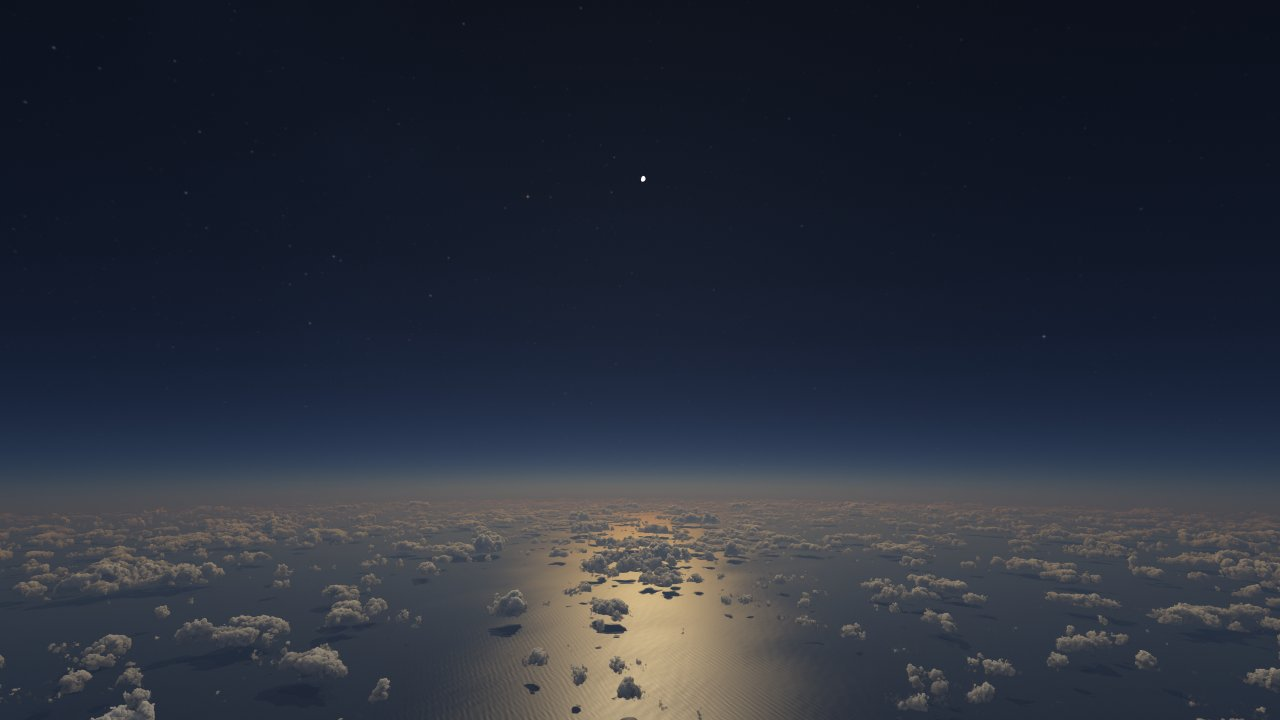
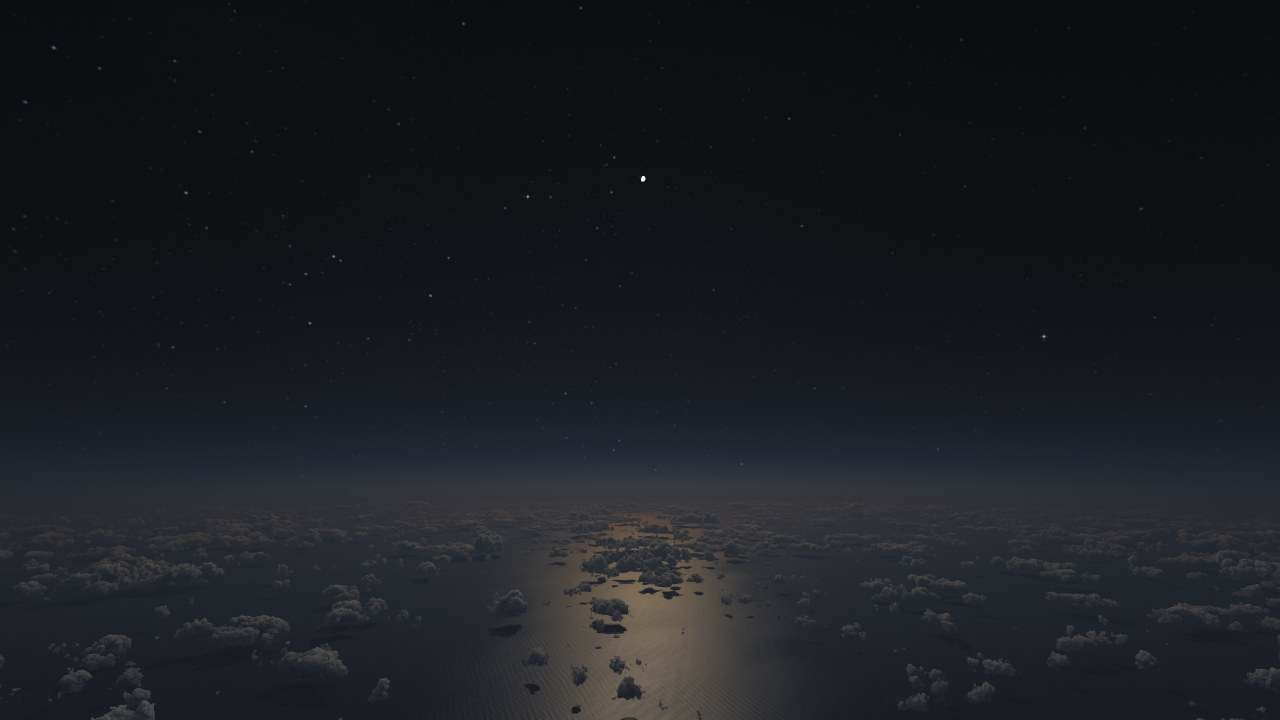
Night as the eye sees it: capped exposure, rods' grey, stars against a bright sky
A half-moon night was exposed like a long exposure: the floor of the
exposure held the median at the same shown level from dusk down to a
moonless night, so moonlit clouds came out nearly as light as by day,
the low moon's reddened light gave tan clouds, a golden glitter and an
orange-brown rim at the horizon, the sky was a saturated blue, and only
a handful of stars showed.

- Exposure: at night the eye opens up no further than it can
  (NIGHT_OPEN, NIGHT_SKY, NIGHT_RATE on the sky's level). A half moon
  stays dark, a full moon is brighter, a moonless night darker still.
- Colour: below a few cd/m2 the rods take over (after Krawczyk et al.
  2005): colours fade into the rods' slightly blue grey (uWS, a fit of
  the scotopic curve's shape; ROD_HALF 0.01 cd/m2), as the night eye
  comes in with the sun from -3 to -6 degrees (uNightEye).
- Stars: raised by the square root of how much brighter the sky behind
  them is than the moonless sky (de Vries-Rose), and STAR_GAIN 3 -> 5.

Day and sunset pictures are unchanged; dusk at -4 degrees moves by at
most 2 levels.

Claude-Session: https://claude.ai/code/session_0164gFYhFQTZWxi11WF846xx

diff --git a/index.html b/index.html
@@ -643,12 +643,14 @@ uniform float uLook;    // power of the "look" curve
 uniform vec2 uLogRange;
 uniform vec3 uBalance;   // white balance (balanceFor)
 uniform float uSaturation;  // a camera's saturation (saturationFor)
+uniform float uNightEye;    // how far the eye's night vision has come in, 0 by day to 1 (nightEyeFor)
 // Twelve wavelengths (405-680 nm), four per vec4.
 uniform vec4 uBR[3];    // Rayleigh scattering per km
 uniform vec4 uBO[3];    // ozone absorption per km
 uniform vec4 uWR[3];    // spectrum -> linear sRGB (solar spectrum folded in)
 uniform vec4 uWG[3];
 uniform vec4 uWB[3];
+uniform vec4 uWS[3];    // spectrum -> what the rods see (WS in the JS)
 // Multiple scattering per unit of scattering coefficient: NMU x (12 * NH)
 // texels, the three wavelength groups stacked in y; then the same for the
 // light of the sky on the low clouds (cloudSky); then the light's mean
@@ -717,7 +719,11 @@ const int NFAR = 16;            // ...and in the lit air beyond it (see shadowSp
 const int NMU = 40;             // multiple-scattering table: sun angle
 const int NH = 12;              // multiple-scattering table: altitude
 const float MS_MU_MIN = -0.35;
-const float STAR_GAIN = 3.0;
+const float STAR_GAIN = 5.0;
+const float STAR_LIFT = 100.0;  // the most a star is raised against a bright sky (see main)
+const float CD = 6650.0;        // cd/m2 of a luminance of 1 here (white paper in the sun outside the air, 133000 lux, is 1 / pi)
+const float ROD_HALF = 0.01;    // cd/m2 where the rods count as much as the cones (see main)
+const vec3 ROD_TINT = vec3(0.911, 1.003, 1.235);   // the rods' grey, a little blue (luminance 1)
 const float METER_GLINT = 0.15;  // the share of the sun and its glitter in the meter (see main)
 const int GRID = 128;
 const int SLOTS = 8;
@@ -2023,6 +2029,17 @@ void main() {
     float vanRhijn = 1.0 / sqrt(1.0 - 0.90 * (1.0 - d.y * d.y));   // a thin layer seen aslant
     float glow = uNight * (vanRhijn + milkyWay(c)) * (1.0 - moonMask);
     float stars = uNight * STAR_GAIN * (1.0 - moonMask);
+    // At night a star is seen against a brighter sky better than a screen
+    // shows it: the eye's threshold for a point grows with the square root
+    // of the sky's luminance (the de Vries-Rose law), a screen's in
+    // proportion. So as the night eye comes in, a star is raised by the
+    // square root of how much brighter the sky behind it is than the
+    // moonless sky (up to STAR_LIFT): under a quarter moon about as many
+    // stars show as the eye sees, not only the brightest few.
+    if (uNightEye > 0.0) {
+      float back = glow + dot(uWS[0], L[0]) + dot(uWS[1], L[1]) + dot(uWS[2], L[2]);
+      stars *= 1.0 + uNightEye * (sqrt(clamp(back / uNight, 1.0, STAR_LIFT * STAR_LIFT)) - 1.0);
+    }
     for (int k = 0; k < 3; k++) {
       vec4 t = vis * exp(-(uBR[k] * od.x + extM * uMA[k] * od.y + uBO[k] * od.z));
       G[k] = t * sun;
@@ -2056,6 +2073,22 @@ void main() {
     dot(uWG[0], L[0]) + dot(uWG[1], L[1]) + dot(uWG[2], L[2]),
     dot(uWB[0], L[0]) + dot(uWB[1], L[1]) + dot(uWB[2], L[2]));
   col = max(col, 0.0);                               // colours outside sRGB
+  // The eye at night (after Krawczyk, Myszkowski and Seidel, 2005). Below
+  // a few cd/m2 the rods take over from the cones, and colours fade into
+  // the grey of what the rods see, which favours blue-green over red (the
+  // Purkinje shift): moonlit clouds and the moon's glitter are grey to the
+  // eye, and the moonlit sky a dark grey-blue, where a long exposure shows
+  // them in the colours of sunlight. The rods' share is ROD_HALF / (ROD_HALF
+  // + the pixel's luminance in cd/m2), as the night eye comes in (the
+  // paper's 0.04 greyed the sky of nautical twilight, which the eye still
+  // sees blue). Their grey is a little blue, as the night looks (the "blue
+  // shift" of Jensen et al., 2001), but less: neutral grey read as a black
+  // and white photograph.
+  if (uNightEye > 0.0) {
+    float rods = ISUN * (dot(uWS[0], L[0]) + dot(uWS[1], L[1]) + dot(uWS[2], L[2]));
+    float cd = CD * dot(col, vec3(0.2126, 0.7152, 0.0722));
+    col = mix(col, max(rods, 0.0) * ROD_TINT, uNightEye * ROD_HALF / (ROD_HALF + cd));
+  }
   // The meter counts the sun's disc and glare and its glitter on the sea
   // (G) at METER_GLINT of their light: a camera lets the sun and its mirror
   // image run into white and exposes for the rest. Photographs from the air
@@ -2837,6 +2870,8 @@ const SkySound = (() => {
                                               // daylight's highlights, at most DROP lower...
   const GLOW_FREE = 3.5, GLOW_HOLD = 1;       // ...holding the sky down at most GLOW_HOLD stops for each stop the
                                               // band stands more than GLOW_FREE stops above the sky
+  const NIGHT_OPEN = 16.75, NIGHT_SKY = -22.5, NIGHT_RATE = 0.5;   // at night the eye opens up at most to NIGHT_OPEN
+                                       // when the sky's level is NIGHT_SKY, NIGHT_RATE stops more per stop darker
   const MONO_RATE = [1, 0.8], MONO_STEP = 0.25;  // as the sun goes down, the exposure opens up at most MONO_RATE
                                               // stops for each stop the sky darkens (in steps of MONO_STEP degrees):
   const MONO_DEEP = [-3, -6];                 // the first in civil twilight, the second from the sun MONO_DEEP[1] down
@@ -2894,6 +2929,12 @@ const SkySound = (() => {
   const yNorm = CMF.reduce((a, c, i) => a + c[1] * SOLAR[i], 0);
   const W = XYZ_TO_SRGB.map(m => CMF.map((c, i) => SOLAR[i] * (m[0] * c[0] + m[1] * c[1] + m[2] * c[2]) / yNorm));
   const WY = CMF.map((c, i) => SOLAR[i] * c[1] / yNorm);
+  // What the rods see, the same way, scaled so that sunlight gives them its
+  // luminance: the shape of the CIE's scotopic curve (peak at 507 nm), fitted
+  // here as a Gaussian in wavenumber, steeper on the red side.
+  const ROD = WL.map(l => Math.exp(-(l < 507 ? 12.6 : 36.7) * (1000 / l - 1000 / 507) ** 2));
+  const rodNorm = ROD.reduce((a, r, i) => a + r * SOLAR[i], 0);
+  const WS = ROD.map((r, i) => r * SOLAR[i] / rodNorm);
 
   // Optical depth from a point to the top of the atmosphere, towards the sun:
   // a table over altitude and the cosine of the sun's zenith angle.
@@ -3275,6 +3316,13 @@ const SkySound = (() => {
   const DAY_SATURATION = 1.3;
   const saturationFor = () => 1 + (DAY_SATURATION - 1) * smooth01((state.elev - DUSK[1]) / (DUSK[0] - DUSK[1]));
 
+  // The eye at night (uNightEye): the rods' grey and the stars raised against a
+  // bright sky (see main in fs) come in as the sun goes from NIGHT_EYE[0] to
+  // NIGHT_EYE[1] degrees. None by day; at -3 degrees the sky is still some 30
+  // cd/m2, too bright for the rods to matter.
+  const NIGHT_EYE = [-3, -6];
+  const nightEyeFor = () => smooth01((NIGHT_EYE[0] - state.elev) / (NIGHT_EYE[0] - NIGHT_EYE[1]));
+
   // The exposure (log2) that a picture asks for, from the levels v of its
   // blocks. As the eye's:
   // - key: it opens up as the view darkens, but not all the way (EYE stops
@@ -3331,6 +3379,14 @@ const SkySound = (() => {
   //   (msData, at the eye's height) is darker now. Without it, the sky
   //   away from the sun rose by 70 levels of 255 from sunset to 2 degrees
   //   below, as the brighter twilight's exposure took over.
+  // - and at night the eye opens up no further than it can: the exposure
+  //   is at most NIGHT_OPEN when the sky's level (DUSK_SHARE) is at
+  //   NIGHT_SKY (a quarter moon's), and NIGHT_RATE stops more for each stop
+  //   that it is darker. So a half-moon night stays clearly dark, a full
+  //   moon is brighter, and a moonless night darker still. Without it the
+  //   floor held the median at the same shown level from dusk down to a
+  //   moonless night: a half moon's clouds came out nearly as light as by
+  //   day, as in a long exposure, yet with the stars of a short one.
   // Of the picture only its levels at five shares are needed: they are
   // sorted once, and the same view a stop brighter is the same shares a
   // stop higher.
@@ -3340,8 +3396,10 @@ const SkySound = (() => {
     const white = WHITE - high - DIM * Math.max(0, DAY_HIGH - high);
     const floor = Math.min(key, KEY + MID_GAP - EYE * mid - DEEP * (1 - EYE) * (mid - NIGHT_LEVEL));
     const byDay = Math.max(Math.min(key, white), floor);
+    // The eye's limit (see NIGHT_OPEN), on the sky's level.
+    const eye = NIGHT_OPEN - NIGHT_RATE * (Math.max(st.sky + d, LOG_RANGE[0]) - NIGHT_SKY);
     const dusk = smooth01((DUSK[0] - elev) / (DUSK[0] - DUSK[1])) * state.sunOn;
-    if (dusk === 0) return byDay;
+    if (dusk === 0) return Math.min(byDay, eye);
     // Twilight's: the sky's level shown, from the night's (nightMid
     // shown at nightShown) up to DUSK_SHOWN at DUSK_MID.
     const sky = Math.max(st.sky + d, NIGHT_LEVEL), peak = st.peak + d;
@@ -3352,7 +3410,7 @@ const SkySound = (() => {
     const byGlow = Math.max(WHITE + PEAK_ABOVE - peak - Math.min(DROP, DIM_BAND * Math.max(0, DAY_HIGH - peak)),
                             shown - sky - GLOW_HOLD * Math.max(0, peak - sky - GLOW_FREE));
     const byDusk = Math.min(shown - sky, WHITE - high + above, byGlow);
-    return byDay + (byDusk - byDay) * dusk;
+    return Math.min(byDay + (byDusk - byDay) * dusk, eye);
   }
   // log2 of the luminance of the air's mean light (msData) at height alt
   // with the sun at elevation e (degrees): how much darker the sky is.
@@ -3650,6 +3708,7 @@ const SkySound = (() => {
     gl.uniform4fv(U('uWR'), new Float32Array(W[0]));
     gl.uniform4fv(U('uWG'), new Float32Array(W[1]));
     gl.uniform4fv(U('uWB'), new Float32Array(W[2]));
+    gl.uniform4fv(U('uWS'), new Float32Array(WS));
     gl.bindTexture(gl.TEXTURE_2D, gl.createTexture());
     for (const [k, v] of [[gl.TEXTURE_MIN_FILTER, gl.LINEAR], [gl.TEXTURE_MAG_FILTER, gl.LINEAR],
       [gl.TEXTURE_WRAP_S, gl.CLAMP_TO_EDGE], [gl.TEXTURE_WRAP_T, gl.CLAMP_TO_EDGE]]) {
@@ -3671,7 +3730,7 @@ const SkySound = (() => {
     const uLight = U('uLight'), uLightI = U('uLightI');
     const uJitter = U('uJitter'), uPass = U('uPass');
     gl.uniform2fv(U('uLogRange'), LOG_RANGE);
-    const uBalance = U('uBalance'), uSaturation = U('uSaturation');
+    const uBalance = U('uBalance'), uSaturation = U('uSaturation'), uNightEye = U('uNightEye');
     let tableHaze = null;
     // The exposure, log2 (null until the first picture has been metered).
     let logE = null;
@@ -3707,6 +3766,7 @@ const SkySound = (() => {
       gl.uniform1f(uLook, v.look);
       gl.uniform3fv(uBalance, balanceFor());
       gl.uniform1f(uSaturation, saturationFor());
+      gl.uniform1f(uNightEye, nightEyeFor());
       gl.uniform1f(uAlt, v.alt);
       gl.uniform1f(uCloud, v.cloud);
       gl.uniform1f(uWind, state.wind);

diff --git a/docs/design.md b/docs/design.md
@@ -222,6 +222,12 @@ the rate to real time, and plays.
   mattering.
 - One light for the clouds and the sea (`uLight`, `uLightI`): the sun while
   it is above -3 degrees, else the moon.
+- The eye's night vision (`nightEyeFor`, `uNightEye`) comes in from 0 to 1
+  as the sun goes from -3 to -6 degrees (`NIGHT_EYE`, a smoothstep): the
+  rods' grey ([Exposure and the tone curve](#exposure-and-the-tone-curve))
+  and the stars raised against a bright sky ([Sun, moon,
+  stars](#sun-moon-stars)). At -3 degrees the sky is still some 30 cd/m2,
+  far too bright for the rods to matter; by day nothing changes.
 - `state.sky` (`uSky`) turns J2000 equatorial directions into local axes.
 
 The date slider covers the current year. The moon's age starts from the
@@ -710,7 +716,18 @@ all dimmed and reddened by the air:
   (`starCell`). A star is a spot about a pixel wide, with a colour from its
   B-V index (Ballesteros's temperature, then a tilt of the spectrum) and a
   compressed brightness (a "look"). The brightest get diffraction spikes
-  fixed to the screen.
+  fixed to the screen. The core of a star of magnitude 6.5 is `STAR_GAIN`
+  = 5 times the radiance of the airglow (3 before the night's exposure was
+  capped: at the darker exposure of a moonless night, 3 showed about 160
+  stars in the upper part of a view from cruise, 5 shows some 330).
+  At night a star is raised against a bright sky: the eye's threshold for
+  a point grows with the square root of the sky's luminance (the de
+  Vries-Rose law), a screen's in proportion. As the night eye comes in
+  (`uNightEye`, below), each star is multiplied by the square root of how
+  much brighter the sky behind it (what the rods see of it, `uWS`, and the
+  airglow) is than the moonless sky (`uNight`), at most `STAR_LIFT` = 100.
+  Without it, a quarter moon's sky hid all but the brightest few stars,
+  and a full moon's all but two in a view from cruise.
 
 **Glare**: a glow of a few degrees around the sun, as strayed
 light in a lens, dimmed by the clouds (the shadow map at the eye) and the
@@ -836,7 +853,21 @@ itself, the one read that waits.
   degrees and lifted the picture by up to `DUSK_LIFT` = 1.2 stops (gone
   now): in a time-lapse the sky away from the sun went from 75 to 148
   (of 255) between sunset and 2 degrees below it, and the view towards
-  the sun from near the sea rose by 23 levels as the sun's disc set.
+  the sun from near the sea rose by 23 levels as the sun's disc set;
+- and at night the eye opens up no further than it can: the exposure is
+  at most `NIGHT_OPEN` = 16.75 when the sky's level (the level that the
+  brighter third passes, as in twilight) is `NIGHT_SKY` = -22.5, about a
+  quarter moon's, and `NIGHT_RATE` = 0.5 stops more for each stop that it
+  is darker (less for each stop brighter). By day and in twilight it is
+  far above the exposure and does nothing; it takes over in the last of
+  the twilight, with the sun 11 to 18 degrees down (sooner near the
+  sea). Before it, the floor held the median at about the same shown
+  level from dusk down to a moonless night, as a long exposure does:
+  under a quarter moon the clouds came out nearly as light as by day (150
+  of 255 from cruise), yet the sky showed only the brightest few stars.
+  Now they are at about 40 to 70 under a quarter moon and 110 under a
+  full moon, and a moonless night is darker still: black sky, stars, the
+  clouds below barely seen.
 
 `exposureFor` returns the exposure.
 
@@ -864,7 +895,24 @@ base has neither, and is compared as it comes.
 
 At the end of `main`:
 
-1. Spectrum to linear sRGB, times `ISUN`; the level for the meter is
+1. Spectrum to linear sRGB, times `ISUN`. At night the rods take over from
+   the cones (after Krawczyk, Myszkowski and Seidel, 2005): the colour is
+   mixed with the grey that the rods see (`uWS`: the shape of the CIE's
+   scotopic curve, peak at 507 nm, fitted as a Gaussian in wavenumber;
+   sunlight gives the rods the same luminance as the cones), a little
+   blue (`ROD_TINT`, the "blue shift" of the night in Jensen et al.,
+   2001, but less). The rods' share is `ROD_HALF / (ROD_HALF + Y)`, where Y
+   is the pixel's luminance in cd/m2 (`CD` = 6650 per unit: white paper in
+   the sun outside the air, 133,000 lux, is 1 / pi here) and `ROD_HALF` =
+   0.01 cd/m2 (the paper's 0.04 greyed the sky of nautical twilight,
+   which photographs and the eye see blue), times `uNightEye`. So the moonlit clouds (about 0.003 cd/m2
+   under a quarter moon) and the moon's glitter are grey to the eye, and
+   the moonlit sky a dark grey-blue, where a long exposure shows them in
+   the colours of sunlight; the twilight sky (0.1 cd/m2 and more with the
+   sun 10 degrees down) keeps its colour. Before, the light of a low moon,
+   reddened on its long way through the air and on the way back from the
+   far clouds, made tan clouds, a golden glitter and an orange-brown rim
+   along the far cloud tops at the horizon. The level for the meter is
    taken here; then times `uExposure`.
    No shoulder keeps the hue: each channel meets the curve of steps 4 to
    6 on its own, as on a camera's sensor.

diff --git a/README.md b/README.md
@@ -63,7 +63,7 @@ All the parameters are listed in [docs/development.md](docs/development.md).
 - Clouds: their shapes come from 3D noise. The ray steps through the clouds; how a cloud is lit is found by stepping through it towards the sun.
 - Sea: from the spread of the waves' slopes, the page works out the sun's glitter, the mirrored sky, the blue light that comes back out of the water, and whitecaps.
 - Thin cloud: streaks of ice crystals drawn out by the wind. A 22-degree halo appears around the sun.
-- Night: the moon is a sphere lit by the sun, so its phases come out by themselves. The positions, brightness and colours of the stars come from Wikidata (CC0).
+- Night: the moon is a sphere lit by the sun, so its phases come out by themselves. The positions, brightness and colours of the stars come from Wikidata (CC0). The night is shown as the eye sees it: dark under a half moon, brighter under a full moon, and in the grey of night vision, with colours fading as the light fails.
 - One picture is the mean of many pictures, each drawn slightly shifted. At rest it turns smooth within a few dozen frames, and then drawing stops. While the view moves, the last picture is shifted with the movement and laid under the new one.
 
 ## What it needs

diff --git a/README.ja.md b/README.ja.md
@@ -58,7 +58,7 @@ English: [README.md](README.md)
 - 雲: 形は 3 次元のノイズで作ります。視線に沿って雲の中を進み、光の当たり方は、太陽の方へ雲をたどって決めます。
 - 海: 波の傾きの分布から、太陽のきらめき、空の映り込み、水の中から戻る青い光、白波を計算します。
 - 薄雲: 風に引き伸ばされた、氷の粒の筋です。太陽のまわりに 22 度のかさも出ます。
-- 夜: 月は太陽に照らされた球なので、満ち欠けが出ます。星の位置・明るさ・色は Wikidata(CC0)によります。
+- 夜: 月は太陽に照らされた球なので、満ち欠けが出ます。星の位置・明るさ・色は Wikidata(CC0)によります。夜は目で見たように描きます。半月の夜は暗く、満月の夜はもっと明るく、光が弱まるにつれて色が薄れ、夜の目の灰色になります。
 - 1 枚の絵は、少しずつずらして描いた何枚もの絵の平均です。止まっていると数十フレームで滑らかになり、描くのをやめます。動いている間は、前の絵を動きに合わせてずらして重ねます。
 
 ## 必要なもの
